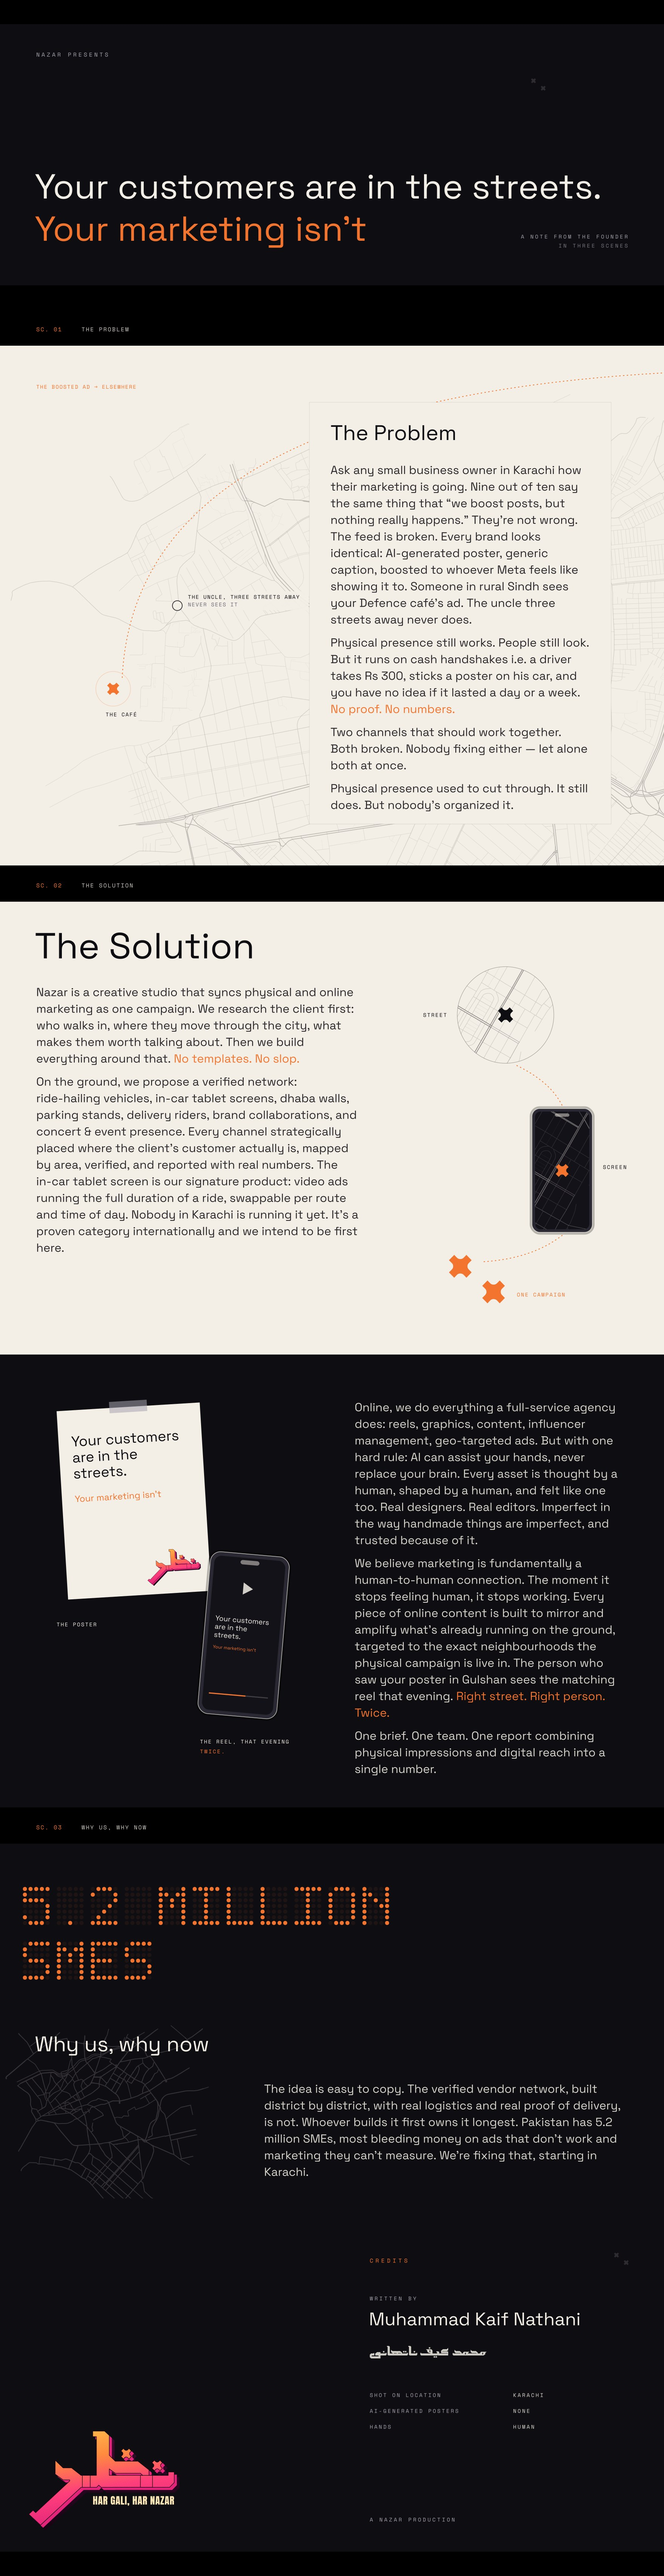
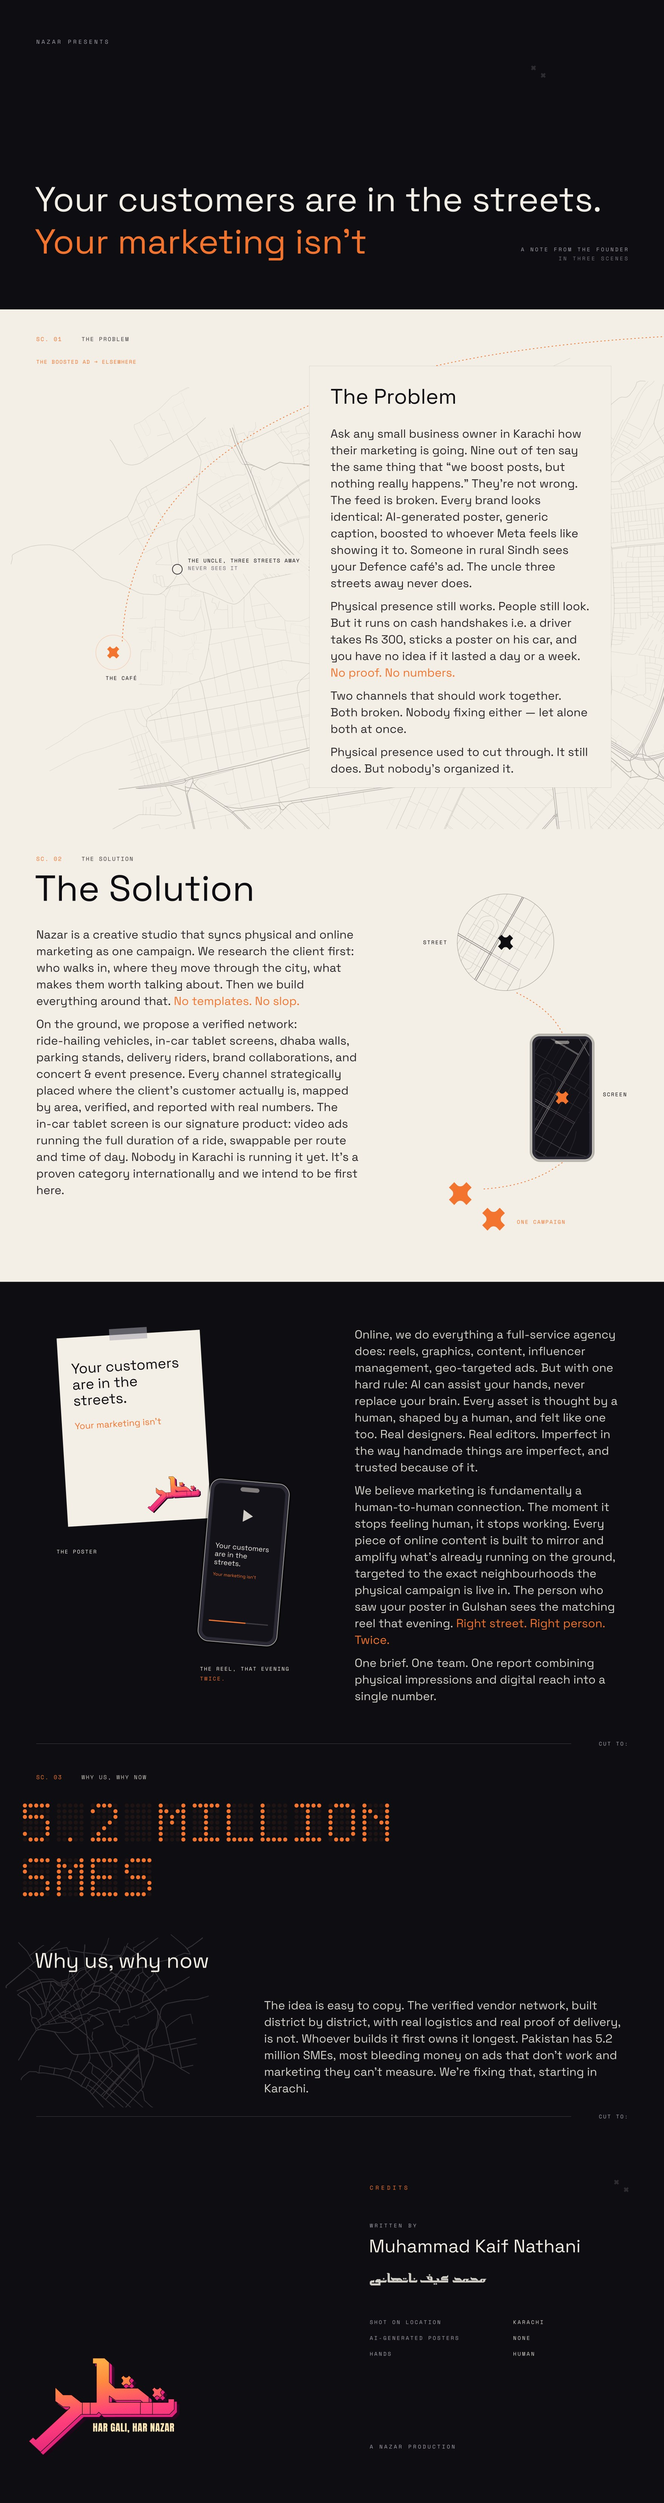
Founder's note: drop the strips, labels inside frames, CUT TO between dark scenes; note shown open in README

diff --git a/README.md b/README.md
@@ -52,11 +52,9 @@ He runs **Nazar**, a Karachi studio that plans the street and the feed as one ca
 
 His preferences live in [`nazar-core/references/kaif.md`](nazar-core/references/kaif.md). Fork the repo, swap in your own taste, and the whole studio follows. (Keep the wink, though. He'd want that.)
 
-<details>
-<summary><b>🎬 Roll the founder's note</b> (three scenes, about two minutes)</summary>
-<br>
+### 🎬 The founder's note
+
 <img src="assets/founder-note.jpg" alt="Founder's note by Muhammad Kaif Nathani, set as a film: title card 'Your customers are in the streets. Your marketing isn't', scene 1 The Problem, scene 2 The Solution, scene 3 Why us, why now, and end credits." width="100%">
-</details>
 
 ## Credits
 Method and taste by **Kaif Nathani** / Nazar. Standing on the shoulders of Vignelli, Rand, Rams, Müller-Brockmann, Aicher, Crouwel, Games, Gill, Bass, Albers and a lot of very patient archivists. Fonts in `nazar-core/engine/fonts` are SIL OFL (licences included).
